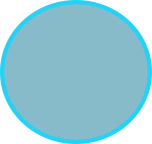
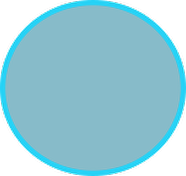
Round 35 lows: the right stick's click overlay uses the right stick's art
Both Xbox One and Xbox Series drew XB1_LeftStick_Click.png /
XBSeries_LeftStick_Click.png for the RIGHT thumb button. The generator took a
single stick_click_filename for both sticks, while the sticks themselves take a
stick_filenames PAIR. The correct assets shipped all along, unreferenced.

Fixed in tools/overlay_positions.py, which is the source of truth, then
regenerated. Not hand-edited: the two right sprites also had to be refitted to
the right stick's bbox (they are 152x144 and 299x283 against the left's 186x175
and 180x170), so a filename-only edit would have kept the left sprite's
geometry.

The run's collateral is the documented one, and was reverted per the recorded
procedure: it re-resampled four already-shipped sprites and drifted the LEFT
entries' hit-polygons. Those four PNGs and both left entries are restored to
HEAD, leaving only the two right filenames and the two refitted right sprites.

While proving this, the recipe's own check (declared W/H must equal the
sprite's real dimensions) turned out to fail for 31 of 171 entries in the
COMMITTED state, across whole families like XB360. So declared size is the DRAW
size and the renderer scales to it. That is worth knowing before someone reads
a single mismatch as corruption and "fixes" it, which is the shape of the
incident that once zeroed nine files.

Evidence Status.

Confirmed. Both right-click assets were verified present before the change, and
[…]

diff --git a/PadForge.App/Models2D/ControllerOverlayLayout.cs b/PadForge.App/Models2D/ControllerOverlayLayout.cs
@@ -133,7 +133,7 @@ public static class XboxOneSLayout
         new("XB1_LeftStick.png", "LeftThumbRing", OverlayElementType.StickRing, 254, 422, 181, 180, "0.2210,0.0333 0.0829,0.1500 0.0000,0.2944 0.0000,0.7000 0.0497,0.8000 0.1492,0.9111 0.2928,0.9944 0.7017,0.9944 0.7901,0.9500 0.9116,0.8444 0.9945,0.7000 0.9945,0.2944 0.9448,0.1944 0.8453,0.0833 0.7017,0.0000 0.2928,0.0000"),
         new("XB1_RightStick.png", "RightThumbRing", OverlayElementType.StickRing, 892, 658, 186, 176, "0.1613,0.0739 0.0591,0.1818 0.0000,0.2955 0.0000,0.6989 0.0806,0.8409 0.1613,0.9205 0.2957,0.9943 0.6989,0.9943 0.8602,0.8977 0.9355,0.8125 0.9946,0.6989 0.9946,0.2955 0.9140,0.1534 0.8333,0.0739 0.7043,0.0000 0.2903,0.0000"),
         new("XB1_LeftStick_Click.png", "LeftThumbButton", OverlayElementType.StickClick, 254, 422, 181, 180, "0.1344,0.0800 0.0484,0.1771 0.0000,0.2914 0.0000,0.7086 0.0753,0.8514 0.1935,0.9600 0.2849,0.9943 0.7097,0.9943 0.8602,0.9143 0.9462,0.8171 0.9946,0.7086 0.9946,0.2914 0.9247,0.1486 0.8011,0.0343 0.7097,0.0000 0.2849,0.0000"),
-        new("XB1_LeftStick_Click.png", "RightThumbButton", OverlayElementType.StickClick, 892, 658, 186, 175, "0.1344,0.0800 0.0484,0.1771 0.0000,0.2914 0.0000,0.7086 0.0753,0.8514 0.1935,0.9600 0.2849,0.9943 0.7097,0.9943 0.8602,0.9143 0.9462,0.8171 0.9946,0.7086 0.9946,0.2914 0.9247,0.1486 0.8011,0.0343 0.7097,0.0000 0.2849,0.0000"),
+        new("XB1_RightStick_Click.png", "RightThumbButton", OverlayElementType.StickClick, 892, 658, 186, 176, "0.1989,0.0455 0.0699,0.1648 0.0000,0.2955 0.0000,0.6989 0.0699,0.8295 0.1667,0.9261 0.2903,0.9943 0.7043,0.9943 0.8495,0.9091 0.9409,0.8068 0.9946,0.6989 0.9946,0.2955 0.9247,0.1648 0.8280,0.0682 0.7043,0.0000 0.2903,0.0000"),
         new("XB1_D-PAD_Up.png", "DPadUp", OverlayElementType.Button, 504, 624, 95, 96, "0.0000,0.0417 0.0000,0.6042 0.4526,0.9896 0.6000,0.9896 0.9895,0.6458 0.9895,0.0729 0.9368,0.0208 0.8842,0.0000 0.0526,0.0000"),
         new("XB1_D-PAD_Down.png", "DPadDown", OverlayElementType.Button, 506, 719, 90, 96, "0.4000,0.0000 0.0000,0.3333 0.0000,0.8542 0.0333,0.9167 0.1444,0.9896 0.8667,0.9896 0.9889,0.8854 0.9889,0.3438 0.5778,0.0104"),
         new("XB1_D-PAD_Left.png", "DPadLeft", OverlayElementType.Button, 433, 678, 118, 83, "0.0000,0.1325 0.0000,0.7831 0.0339,0.8795 0.1102,0.9880 0.6525,0.9880 0.9915,0.5542 0.9915,0.3976 0.6610,0.0000 0.1441,0.0000 0.0508,0.0482"),
@@ -166,7 +166,7 @@ public static class XboxSeriesXLayout
         new("XBSeries_LeftStick.png", "LeftThumbRing", OverlayElementType.StickRing, 264, 355, 177, 176, "0.2768,0.0057 0.1751,0.0625 0.0791,0.1534 0.0000,0.2898 0.0000,0.7045 0.1525,0.9148 0.2768,0.9886 0.7175,0.9886 0.8192,0.9318 0.9153,0.8409 0.9944,0.7045 0.9944,0.2898 0.8418,0.0795 0.7175,0.0057"),
         new("XBSeries_RightStick.png", "RightThumbRing", OverlayElementType.StickRing, 886, 586, 180, 170, "0.1556,0.0765 0.0611,0.1765 0.0000,0.2941 0.0000,0.7000 0.0833,0.8471 0.1556,0.9176 0.2889,0.9941 0.7056,0.9941 0.8667,0.8941 0.9333,0.8176 0.9944,0.7000 0.9944,0.2941 0.9111,0.1471 0.8389,0.0765 0.7056,0.0000 0.2889,0.0000"),
         new("XBSeries_LeftStick_Click.png", "LeftThumbButton", OverlayElementType.StickClick, 264, 355, 177, 176, "0.1222,0.0706 0.0667,0.1294 0.0000,0.2882 0.0000,0.7059 0.0611,0.8588 0.1278,0.9294 0.1667,0.9294 0.2833,0.9941 0.7111,0.9941 0.8722,0.9235 0.9278,0.8647 0.9944,0.7059 0.9944,0.2882 0.9333,0.1353 0.8667,0.0647 0.8278,0.0647 0.7111,0.0000 0.2833,0.0000"),
-        new("XBSeries_LeftStick_Click.png", "RightThumbButton", OverlayElementType.StickClick, 886, 586, 180, 170, "0.1222,0.0706 0.0667,0.1294 0.0000,0.2882 0.0000,0.7059 0.0611,0.8588 0.1278,0.9294 0.1667,0.9294 0.2833,0.9941 0.7111,0.9941 0.8722,0.9235 0.9278,0.8647 0.9944,0.7059 0.9944,0.2882 0.9333,0.1353 0.8667,0.0647 0.8278,0.0647 0.7111,0.0000 0.2833,0.0000"),
+        new("XBSeries_RightStick_Click.png", "RightThumbButton", OverlayElementType.StickClick, 886, 586, 180, 170, "0.1556,0.0765 0.0667,0.1706 0.0000,0.2941 0.0000,0.7000 0.0944,0.8588 0.2889,0.9941 0.7056,0.9941 0.8778,0.8824 0.9944,0.7000 0.9944,0.2941 0.9056,0.1412 0.8389,0.0765 0.7056,0.0000 0.2889,0.0000"),
         new("XBSeries_D-PAD_Up.png", "DPadUp", OverlayElementType.Button, 520, 562, 76, 69, "0.0000,0.1159 0.0000,0.9855 0.9868,0.9855 0.9868,0.1159 0.7895,0.0000 0.1974,0.0000"),
         new("XBSeries_D-PAD_Down.png", "DPadDown", OverlayElementType.Button, 524, 689, 69, 69, "0.0000,0.0000 0.0145,0.9565 0.1014,0.9855 0.8986,0.9855 0.9855,0.9420 0.9855,0.0000"),
         new("XBSeries_D-PAD_Left.png", "DPadLeft", OverlayElementType.Button, 443, 628, 80, 63, "0.0000,0.1746 0.0000,0.7937 0.1000,0.9841 0.9875,0.9841 0.9875,0.0000 0.1000,0.0000"),

diff --git a/tools/overlay_positions.py b/tools/overlay_positions.py
@@ -1077,7 +1077,7 @@ def _process_xbox_modern(profile_name, svg_path, base_relpath, ov_subdir,
                         composite_filename, prefix,
                         face_btn_filenames, dpad_filenames,
                         bumper_filenames, trigger_filenames,
-                        stick_filenames, stick_click_filename,
+                        stick_filenames, stick_click_filenames,
                         guide_filename, menu_filename, view_filename,
                         share_filename=None,
                         bumper_width_frac=0.202,
@@ -1169,12 +1169,15 @@ def _process_xbox_modern(profile_name, svg_path, base_relpath, ov_subdir,
     left_bbox = get_element_pixel_bbox(root, "Left Stick", scale)
     right_bbox = get_element_pixel_bbox(root, "Right Stick", scale)
     if left_bbox:
-        pos = fit_overlay_to_bbox(left_bbox, os.path.join(ov_dir, stick_click_filename))
-        results.append((stick_click_filename, "LeftThumbButton", "StickClick", pos[0], pos[1], pos[2], pos[3]))
+        # Per-stick click art. This used to take ONE filename for both, so
+        # the right thumb button rendered the LEFT stick's click PNG at the
+        # right stick's position. A pair, like stick_filenames alongside it.
+        pos = fit_overlay_to_bbox(left_bbox, os.path.join(ov_dir, stick_click_filenames[0]))
+        results.append((stick_click_filenames[0], "LeftThumbButton", "StickClick", pos[0], pos[1], pos[2], pos[3]))
         print(f"  {'LeftThumbButton':20s} ({'Left Stick':20s}) -> ({pos[0]:4d}, {pos[1]:4d}) {pos[2]:4d}x{pos[3]:3d}")
     if right_bbox:
-        pos = fit_overlay_to_bbox(right_bbox, os.path.join(ov_dir, stick_click_filename))
-        results.append((stick_click_filename, "RightThumbButton", "StickClick", pos[0], pos[1], pos[2], pos[3]))
+        pos = fit_overlay_to_bbox(right_bbox, os.path.join(ov_dir, stick_click_filenames[1]))
+        results.append((stick_click_filenames[1], "RightThumbButton", "StickClick", pos[0], pos[1], pos[2], pos[3]))
         print(f"  {'RightThumbButton':20s} ({'Right Stick':20s}) -> ({pos[0]:4d}, {pos[1]:4d}) {pos[2]:4d}x{pos[3]:3d}")
 
     # D-PAD — same group-split approach as bumpers, but four quadrants.
@@ -1242,7 +1245,7 @@ def process_xbox_one_s():
         trigger_filenames={"L": "XB1_LeftTrigger_Active.png", "LLabel": "Left Trigger",
                            "R": "XB1_RightTrigger_Active.png", "RLabel": "Right Triggers"},
         stick_filenames={"L": "XB1_LeftStick.png", "R": "XB1_RightStick.png"},
-        stick_click_filename="XB1_LeftStick_Click.png",
+        stick_click_filenames=("XB1_LeftStick_Click.png", "XB1_RightStick_Click.png"),
         guide_filename="XB1_HomeButton.png",
         menu_filename="XB1_MenuButton.png",
         view_filename="XB1_ViewButton.png",
@@ -1335,7 +1338,7 @@ def process_xbox_series():
         trigger_filenames={"L": "XBSeries_LeftTrigger_Active.png", "LLabel": "Left Trigger",
                            "R": "XBSeries_RightTrigger_Active.png", "RLabel": "Right Trigger"},
         stick_filenames={"L": "XBSeries_LeftStick.png", "R": "XBSeries_RightStick.png"},
-        stick_click_filename="XBSeries_LeftStick_Click.png",
+        stick_click_filenames=("XBSeries_LeftStick_Click.png", "XBSeries_RightStick_Click.png"),
         guide_filename="XBSeries_HomeButton.png",
         menu_filename="XBSeries_MenuButton.png",
         view_filename="XBSeries_ViewButton.png",
